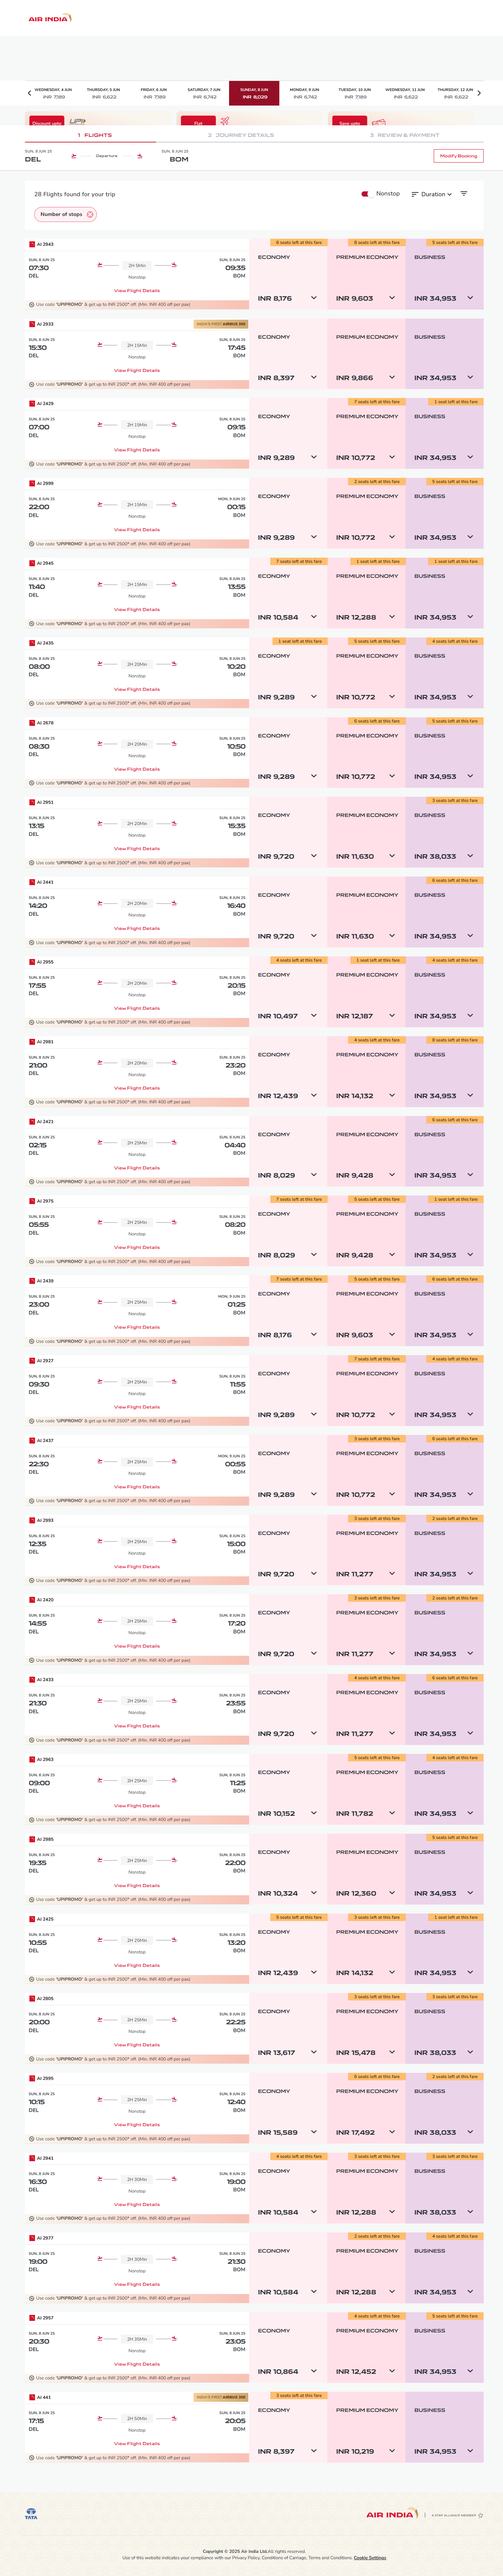
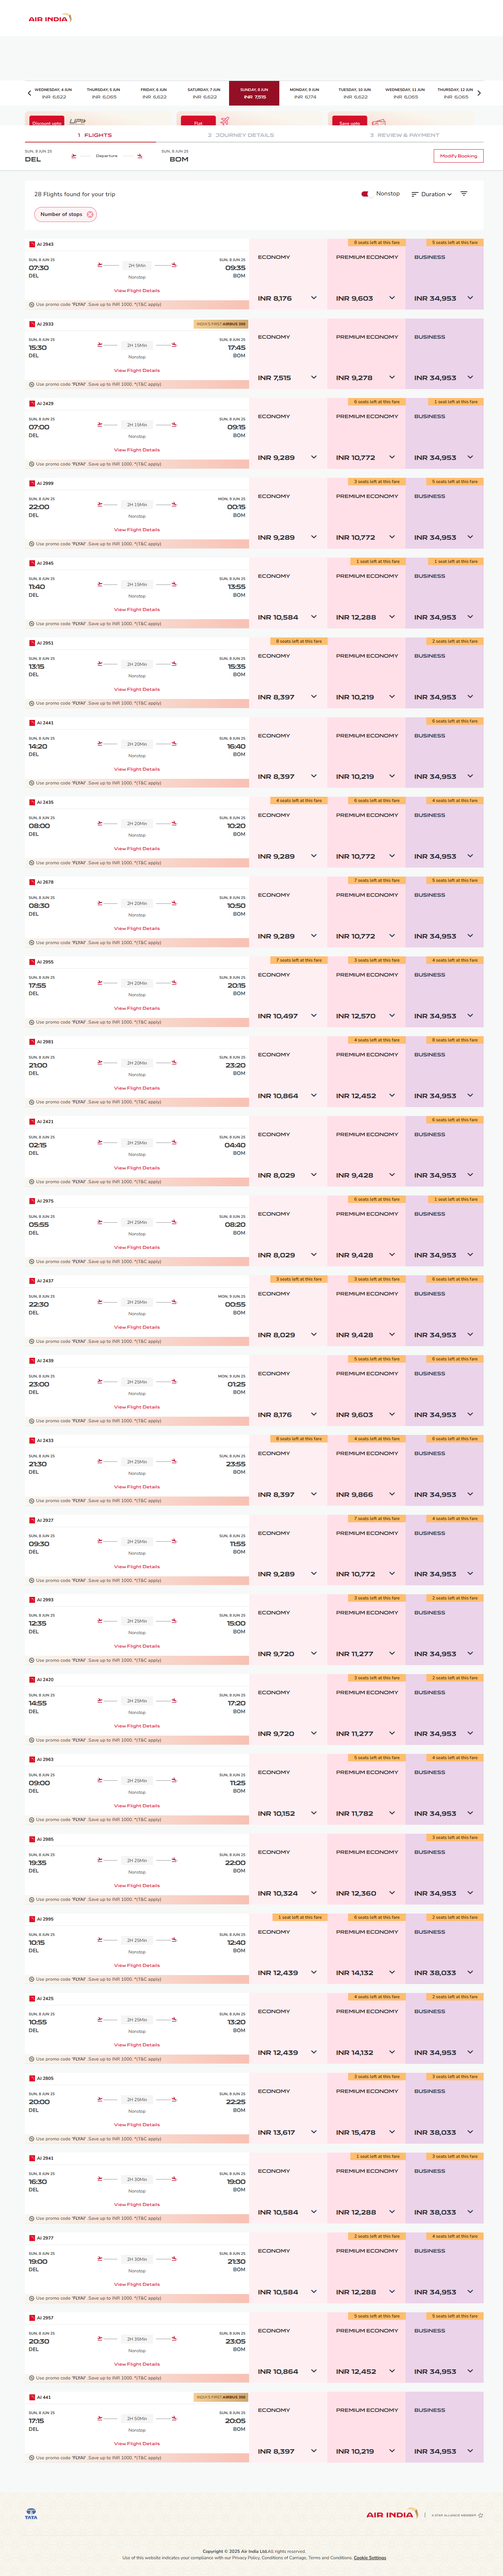
final update

Changed region(s): [[0.715, 0.2491, 0.7772, 0.3425], [0.5596, 0.8094, 0.5907, 0.8406], [0.5596, 0.5292, 0.5907, 0.5604]]

diff --git a/pages/Logs/FlightDetails.html b/pages/Logs/FlightDetails.html
@@ -19,8 +19,8 @@
     "departureTime": "15:30",
     "arrivalTime": "17:45",
     "prices": {
-      "economy": "INR 8,297",
-      "premiumEconomy": "INR 9,638",
+      "economy": "INR 7,436",
+      "premiumEconomy": "INR 9,082",
       "business": "INR 33,381"
     }
   },
@@ -55,6 +55,26 @@
     }
   },
   {
+    "flightNumber": "AI 2951",
+    "departureTime": "13:15",
+    "arrivalTime": "15:35",
+    "prices": {
+      "economy": "INR 8,297",
+      "premiumEconomy": "INR 9,972",
+      "business": "INR 33,381"
+    }
+  },
+  {
+    "flightNumber": "AI 2441",
+    "departureTime": "14:20",
+    "arrivalTime": "16:40",
+    "prices": {
+      "economy": "INR 8,297",
+      "premiumEconomy": "INR 9,972",
+      "business": "INR 33,381"
+    }
+  },
+  {
     "flightNumber": "AI 2435",
     "departureTime": "08:00",
     "arrivalTime": "10:20",
@@ -75,32 +95,12 @@
     }
   },
   {
-    "flightNumber": "AI 2951",
-    "departureTime": "13:15",
-    "arrivalTime": "15:35",
-    "prices": {
-      "economy": "INR 9,589",
-      "premiumEconomy": "INR 11,308",
-      "business": "INR 36,296"
-    }
-  },
-  {
-    "flightNumber": "AI 2441",
-    "departureTime": "14:20",
-    "arrivalTime": "16:40",
-    "prices": {
-      "economy": "INR 9,589",
-      "premiumEconomy": "INR 11,308",
-      "business": "INR 33,381"
-    }
-  },
-  {
     "flightNumber": "AI 2955",
     "departureTime": "17:55",
     "arrivalTime": "20:15",
     "prices": {
       "economy": "INR 10,347",
-      "premiumEconomy": "INR 11,834",
+      "premiumEconomy": "INR 12,197",
       "business": "INR 33,381"
     }
   },
@@ -109,8 +109,8 @@
     "departureTime": "21:00",
     "arrivalTime": "23:20",
     "prices": {
-      "economy": "INR 12,243",
-      "premiumEconomy": "INR 13,676",
+      "economy": "INR 10,705",
+      "premiumEconomy": "INR 12,086",
       "business": "INR 33,381"
     }
   },
@@ -135,6 +135,16 @@
     }
   },
   {
+    "flightNumber": "AI 2437",
+    "departureTime": "22:30",
+    "arrivalTime": "00:55",
+    "prices": {
+      "economy": "INR 7,938",
+      "premiumEconomy": "INR 9,224",
+      "business": "INR 33,381"
+    }
+  },
+  {
     "flightNumber": "AI 2439",
     "departureTime": "23:00",
     "arrivalTime": "01:25",
@@ -145,19 +155,19 @@
     }
   },
   {
-    "flightNumber": "AI 2927",
-    "departureTime": "09:30",
-    "arrivalTime": "11:55",
+    "flightNumber": "AI 2433",
+    "departureTime": "21:30",
+    "arrivalTime": "23:55",
     "prices": {
-      "economy": "INR 9,168",
-      "premiumEconomy": "INR 10,496",
+      "economy": "INR 8,297",
+      "premiumEconomy": "INR 9,638",
       "business": "INR 33,381"
     }
   },
   {
-    "flightNumber": "AI 2437",
-    "departureTime": "22:30",
-    "arrivalTime": "00:55",
+    "flightNumber": "AI 2927",
+    "departureTime": "09:30",
+    "arrivalTime": "11:55",
     "prices": {
       "economy": "INR 9,168",
       "premiumEconomy": "INR 10,496",
@@ -185,16 +195,6 @@
     }
   },
   {
-    "flightNumber": "AI 2433",
-    "departureTime": "21:30",
-    "arrivalTime": "23:55",
-    "prices": {
-      "economy": "INR 9,589",
-      "premiumEconomy": "INR 10,974",
-      "business": "INR 33,381"
-    }
-  },
-  {
     "flightNumber": "AI 2963",
     "departureTime": "09:00",
     "arrivalTime": "11:25",
@@ -215,6 +215,16 @@
     }
   },
   {
+    "flightNumber": "AI 2995",
+    "departureTime": "10:15",
+    "arrivalTime": "12:40",
+    "prices": {
+      "economy": "INR 12,243",
+      "premiumEconomy": "INR 13,676",
+      "business": "INR 36,296"
+    }
+  },
+  {
     "flightNumber": "AI 2425",
     "departureTime": "10:55",
     "arrivalTime": "13:20",
@@ -231,16 +241,6 @@
     "prices": {
       "economy": "INR 13,393",
       "premiumEconomy": "INR 14,950",
-      "business": "INR 36,296"
-    }
-  },
-  {
-    "flightNumber": "AI 2995",
-    "departureTime": "10:15",
-    "arrivalTime": "12:40",
-    "prices": {
-      "economy": "INR 15,318",
-      "premiumEconomy": "INR 16,856",
       "business": "INR 36,296"
     }
   },

diff --git a/pages/FlightResultsPage.ts b/pages/FlightResultsPage.ts
@@ -74,7 +74,6 @@ export class FlightResultsPage {
       });
     }
 
-    // Save flight details to JSON file
     const jsonFilePath = path.resolve(__dirname, './Logs/FlightDetails.json');
     console.log(`Flight details will be saved at: ${jsonFilePath}`);
     try {
@@ -84,7 +83,7 @@ export class FlightResultsPage {
       console.error('Failed to save the file:', error);
     }
 
-    // Create HTML Report
+    
     const htmlContent = `
 <html>
 <head><title>Flight Report</title></head>

diff --git a/playwright.config.ts b/playwright.config.ts
@@ -4,10 +4,10 @@ export default defineConfig({
   timeout: 600000,
   use: {
     headless: false,
-    video: 'on', // ✅ Enable video recording for all tests
-    viewport: null, // ✅ Let browser open at full screen size
+    video: 'on',
+    viewport: null,
     launchOptions: {
-      args: ['--start-maximized'], // ✅ Full window size (no padding)
+      args: ['--start-maximized'], 
     },
   },
 });
